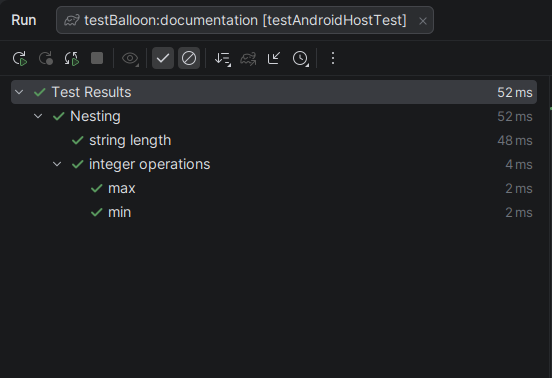
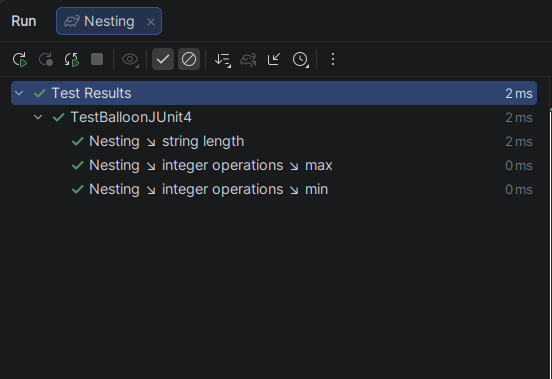
Android local tests: Improve test results reporting in IntelliJ IDEA

diff --git a/experiments/src/commonTest/kotlin/com/example/ExperimentalSuite.kt b/experiments/src/commonTest/kotlin/com/example/ExperimentalSuite.kt
@@ -1,30 +1,42 @@
 package com.example
 
-import de.infix.testBalloon.framework.core.Test
+import de.infix.testBalloon.framework.core.TestBalloonExperimentalApi
 import de.infix.testBalloon.framework.core.TestConfig
-import de.infix.testBalloon.framework.core.aroundEach
+import de.infix.testBalloon.framework.core.TestSession
+import de.infix.testBalloon.framework.core.aroundEachTest
+import de.infix.testBalloon.framework.core.internal.LogLevel
+import de.infix.testBalloon.framework.core.internal.testFrameworkLogLevel
 import de.infix.testBalloon.framework.core.testPlatform
 import de.infix.testBalloon.framework.core.testSuite
-import de.infix.testBalloon.framework.shared.TestElementName
-import de.infix.testBalloon.framework.shared.TestRegistering
+import kotlin.math.max
+import kotlin.math.min
+import kotlin.test.assertEquals
 
 val ExperimentalSuite1 by testSuite(testConfig = TestConfig.logTestExecution()) {
-    test("test 1") {
+    test("string length") {
+        assertEquals(8, "Test me!".length)
+    }
+
+    // Use a function call to register a nested test suite.
+    testSuite("integer operations") {
+        test("max") {
+            assertEquals(5, max(5, 3))
+        }
+
+        test("min") {
+            assertEquals(3, min(5, 3))
+        }
     }
 }
 
-val ExperimentalSuite2 by myTopLevelSuite()
-
-@TestRegistering
-fun myTopLevelSuite(@TestElementName name: String = "") =
-    testSuite(name = name, testConfig = TestConfig.logTestExecution()) {
-        test("test 1") {
-        }
-    }
-
-private fun TestConfig.logTestExecution() = aroundEach { testElementAction ->
+private fun TestConfig.logTestExecution() = aroundEachTest { testElementAction ->
     testElementAction()
-    if (this is Test) {
-        println("##LOG(${testPlatform.displayName} – $testElementPath: OK)LOG##")
+    println("${testPlatform.displayName} – $testElementPath")
+}
+
+class ModuleTestSession : TestSession() {
+    init {
+        @OptIn(TestBalloonExperimentalApi::class)
+        testFrameworkLogLevel = LogLevel.DEBUG
     }
 }

diff --git a/testBalloon-framework-core/src/androidMain/kotlin/de/infix/testBalloon/framework/core/internal/integration/TestBalloonJUnit4Runner.kt b/testBalloon-framework-core/src/androidMain/kotlin/de/infix/testBalloon/framework/core/internal/integration/TestBalloonJUnit4Runner.kt
@@ -10,6 +10,7 @@ import de.infix.testBalloon.framework.core.internal.TestSetupReport
 import de.infix.testBalloon.framework.core.internal.logDebug
 import de.infix.testBalloon.framework.core.withSingleThreadedDispatcher
 import de.infix.testBalloon.framework.shared.internal.Constants
+import de.infix.testBalloon.framework.shared.internal.ReportingMode
 import de.infix.testBalloon.framework.shared.internal.TestBalloonInternalApi
 import de.infix.testBalloon.framework.shared.internal.TestFrameworkDiscoveryResult
 import kotlinx.coroutines.Dispatchers
@@ -154,9 +155,16 @@ private fun TestElement.newPlatformDescription(): Description = when (this) {
 
     is Test -> {
         testElementParent as TestSuite
+
+        val displayName = if (TestSession.global.reportingMode == ReportingMode.INTELLIJ_IDEA) {
+            testElementPath.qualifiedReportingName
+        } else {
+            testElementDisplayName
+        }
+
         Description.createTestDescription(
             testElementParent.testElementPath.qualifiedReportingName,
-            testElementDisplayName.replace('/', '⧸'), // A slash in the test name crashes Android Device tests
+            displayName.replace('/', '⧸'), // A slash in the test name crashes Android Device tests
             testElementPath.internalId
         )
     }

diff --git a/testBalloon-compiler-plugin/src/main/kotlin/de/infix/testBalloon/compilerPlugin/CompilerPluginIrGenerationExtension.kt b/testBalloon-compiler-plugin/src/main/kotlin/de/infix/testBalloon/compilerPlugin/CompilerPluginIrGenerationExtension.kt
@@ -220,7 +220,7 @@ private class Configuration(
         irClassSymbolOrNull("de.infix.testBalloon.framework.core.internal.integration.TestBalloonJUnit4Runner")
     }
 
-    val testBalloonJUnit4EntryPointName = Name.identifier("TestBalloonJUnit4EntryPoint")
+    val testBalloonJUnit4EntryPointName = Name.identifier("TestBalloonJUnit4")
 }
 
 @OptIn(UnsafeDuringIrConstructionAPI::class)
@@ -664,7 +664,7 @@ private class ModuleTransformer(
      *
      * ```
      * @RunWith(TestBalloonJUnit4Runner::class)
-     * internal class TestBalloonJUnit4EntryPoint
+     * internal class TestBalloonJUnit4
      * ```
      */
     private fun irJUnit4RunnerEntryPointClass(entryPointFile: IrFile): IrDeclaration? {
